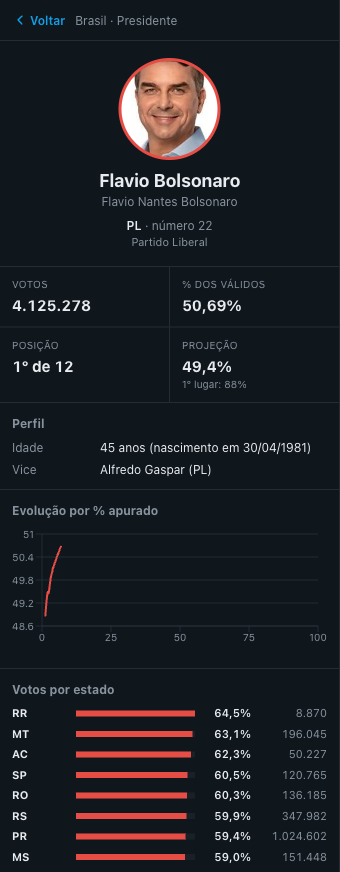
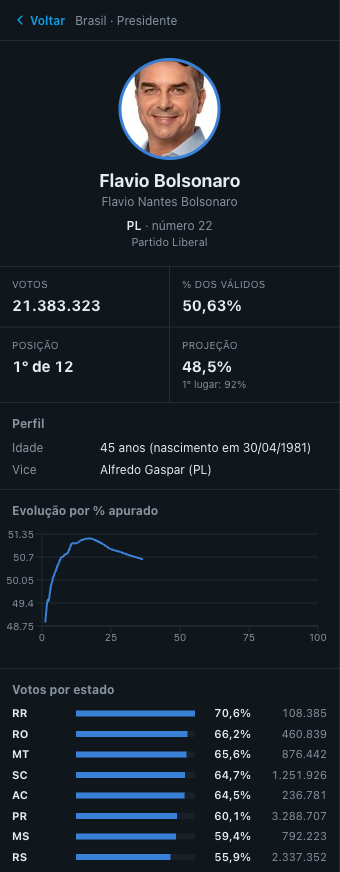
Atualiza as telas do README e explica o eleito matemático
Prints novos com 36% apurado, cores por partido e o Governador de MS já matematicamente eleito.

diff --git a/README.md b/README.md
@@ -38,6 +38,8 @@ A coluna do Brasil só tem Presidente, porque é o único cargo votado no país 
 
 Pra cada candidato aparece a foto, o partido, o número, a porcentagem dos votos válidos e o total de votos.
 A setinha verde ou vermelha mostra se ele subiu ou caiu nas últimas atualizações.
+A cor segue o partido, do jeito que todo mundo reconhece: PT vermelho, PL azul, Missão amarelo, NOVO laranja.
+Ela não muda quando alguém passa outro candidato.
 
 - **Filtro por partido:** os botões logo acima da lista mostram só os candidatos daqueles partidos.
 - **Busca:** dá pra procurar por nome, número ou partido, sem se preocupar com acento.
@@ -66,6 +68,15 @@ Com uma parte das urnas contadas, a gente estima onde cada um deve terminar.
 
 Isso é estatística, não resultado.
 Quando o TSE marca alguém como eleito ou como indo pro 2º turno, o site para de estimar e mostra o que o TSE disse.
+
+Tem um caso em que dá pra cravar antes do TSE: quando nem todos os votos que faltam apurar mudam o resultado.
+A conta é pelo pior cenário: todo mundo das seções que faltam vai votar, e vota no adversário.
+Se mesmo assim o líder continua com mais da metade dos votos válidos, ele já tá eleito, e o site mostra isso.
+No Senado é igual: o candidato tá eleito se continua na frente do primeiro que tá fora das vagas, mesmo que esse leve todos os votos restantes.
+Isso só vale onde a eleição acontece de verdade - Presidente no Brasil, Governador e Senador no estado.
+Ganhar o Presidente num estado não elege ninguém.
+
+<img src="docs/screenshots/eleito.png" alt="Governador de Mato Grosso do Sul já matematicamente eleito" width="340">
 
 ### Quociente eleitoral
 
